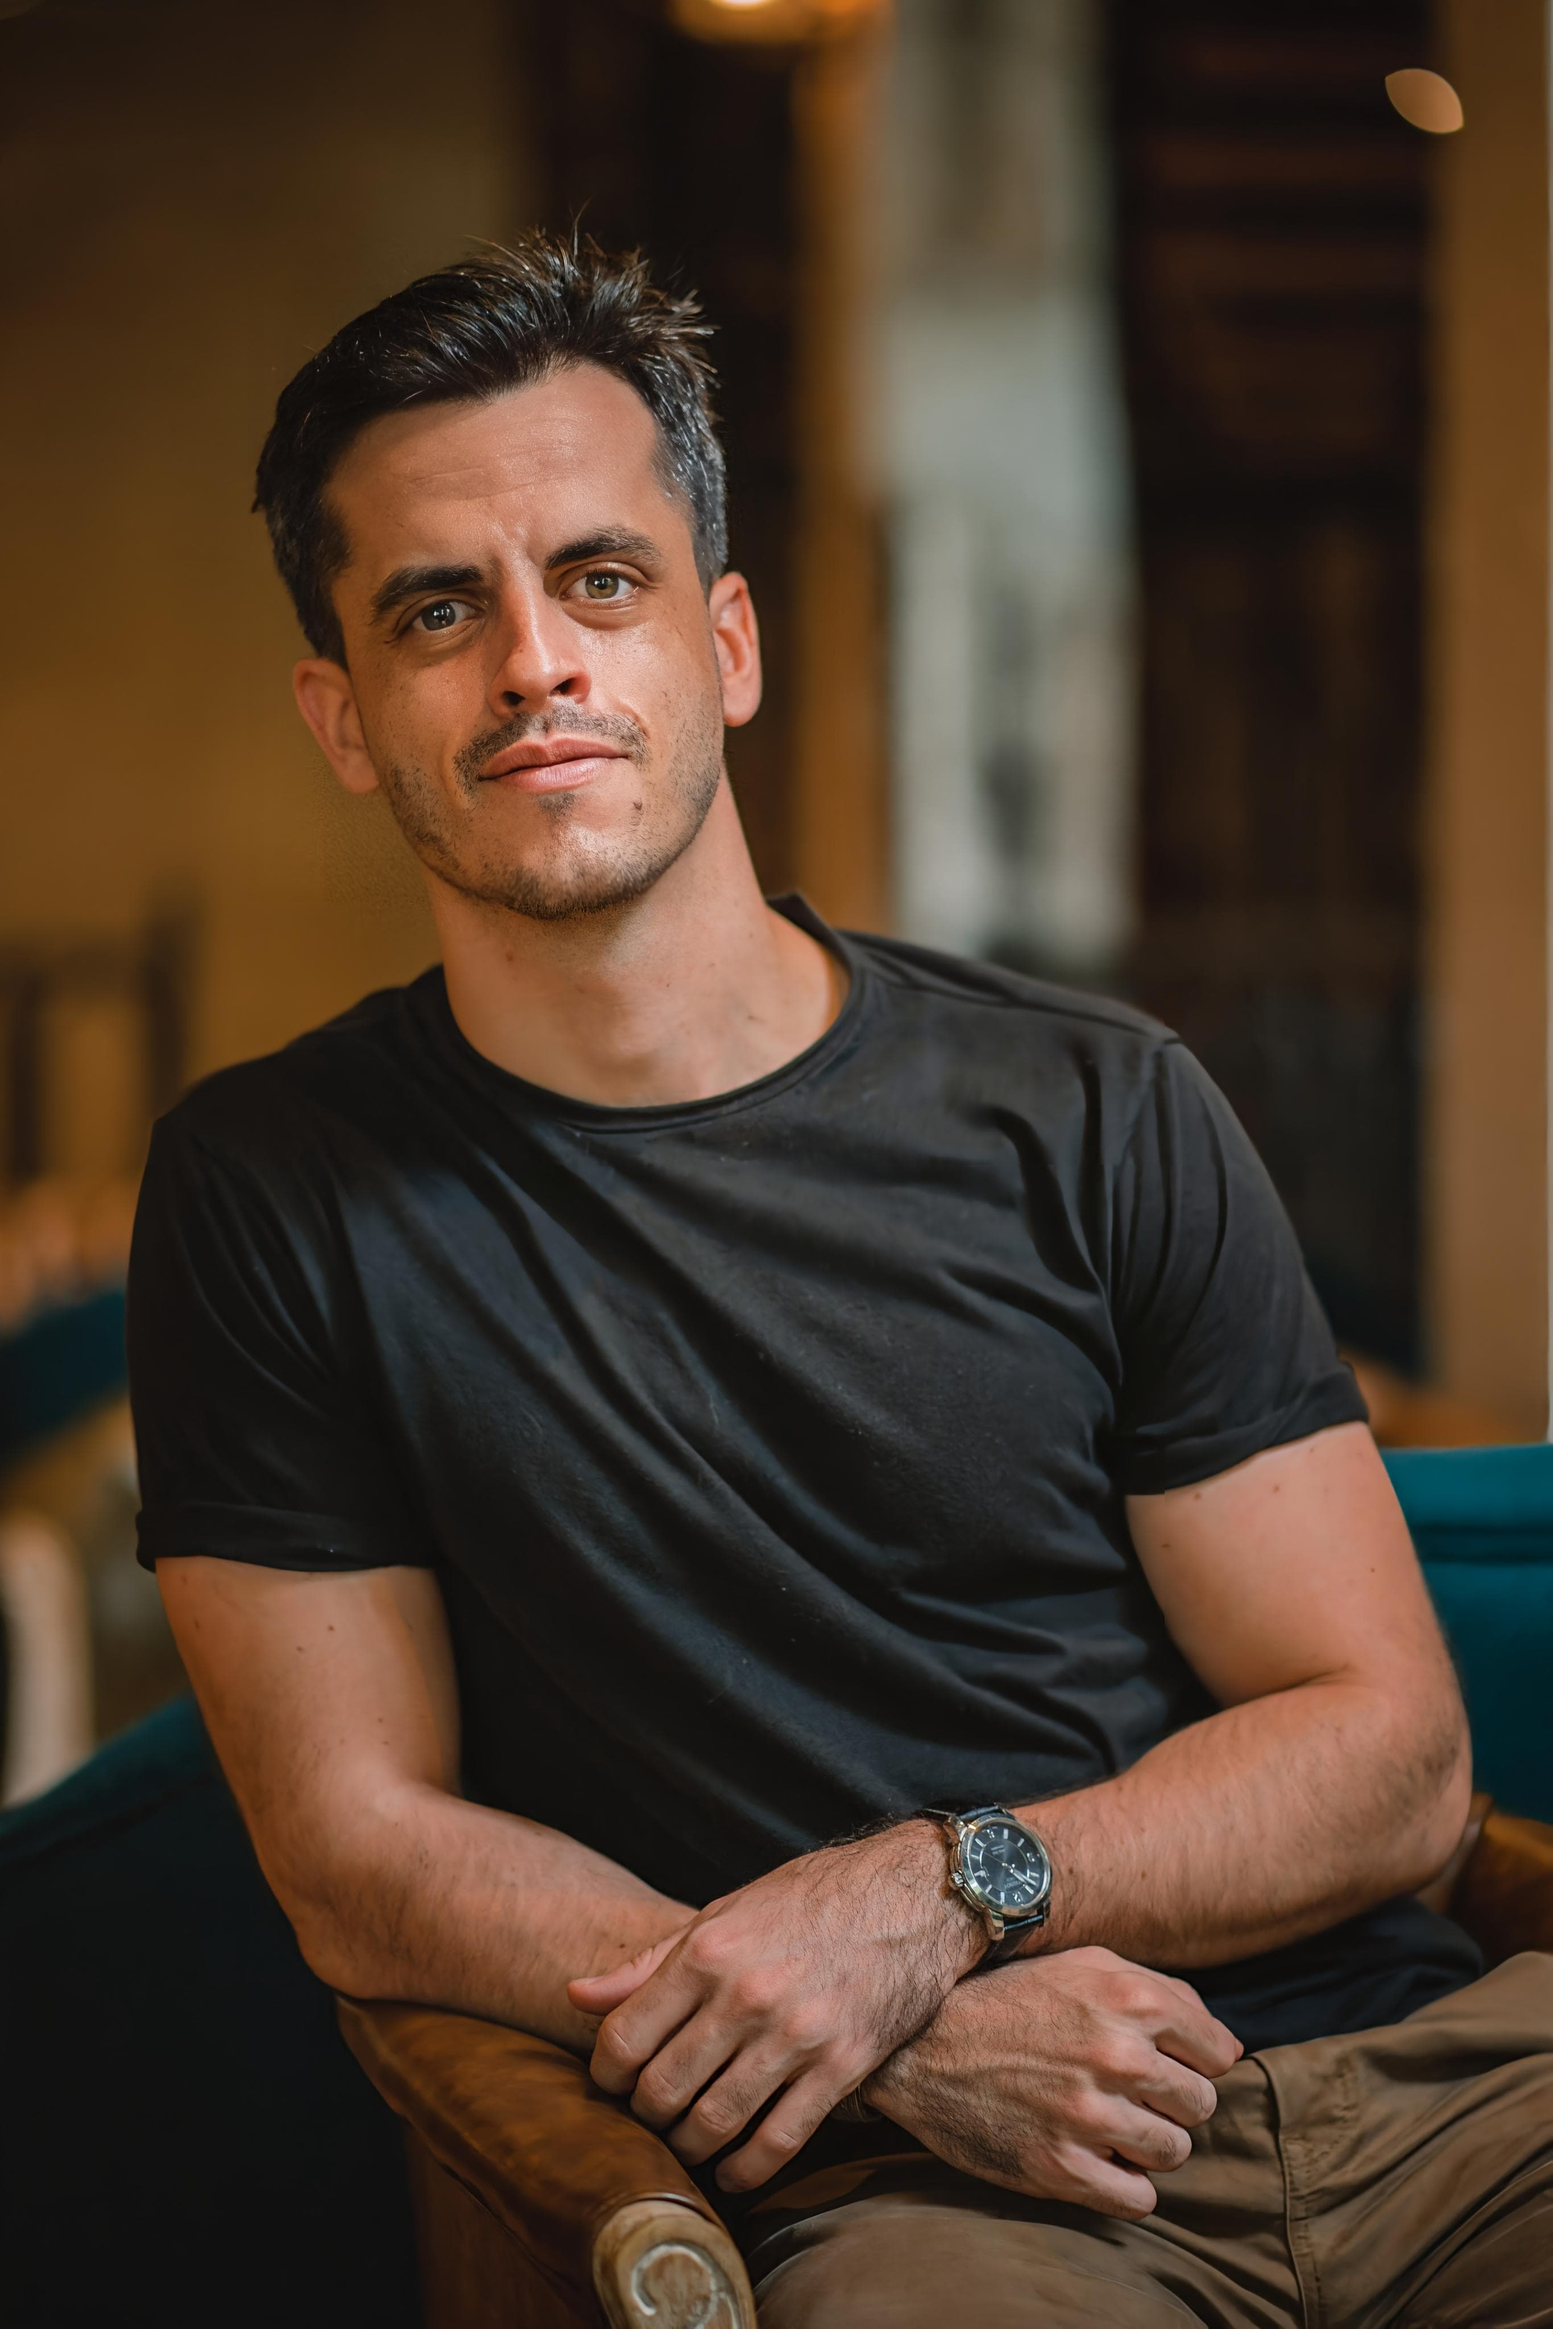
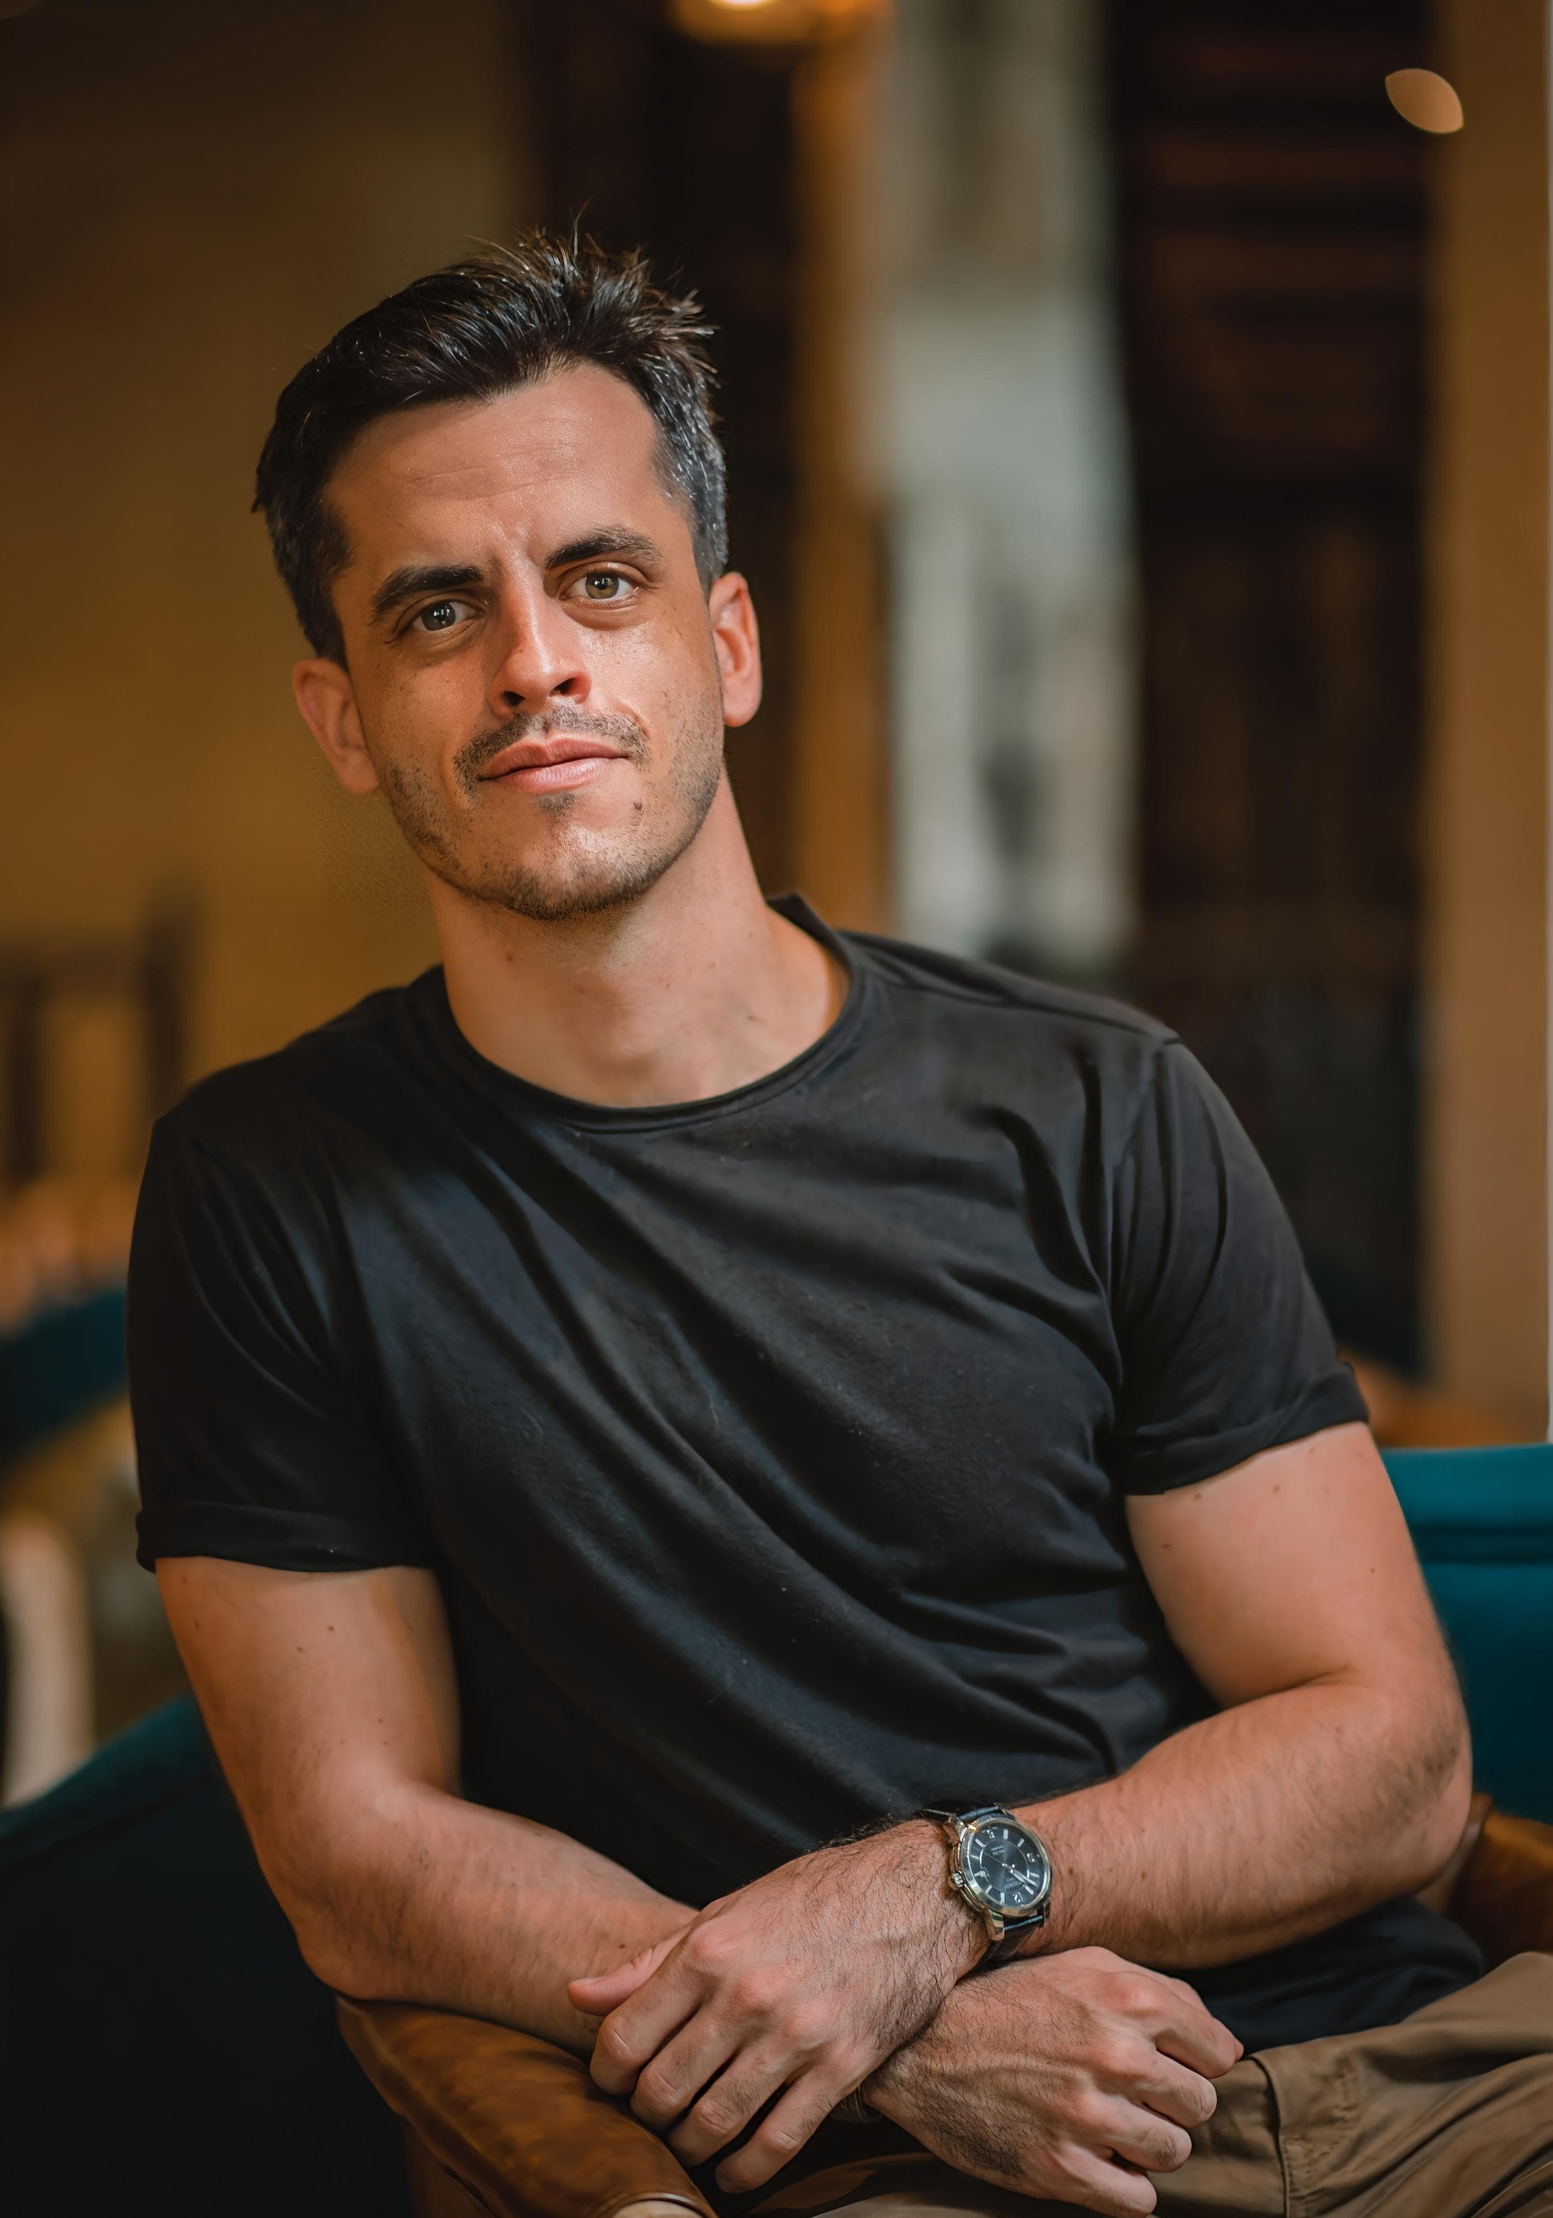
Restore cover fill on hero photo, no more pillarbox seam
contain was reintroducing exactly the hard vertical edge the spec
explicitly ruled out. Reverted to cover (fills edge-to-edge, blends
via the left gradient) and instead cropped the source photo itself
(removed excess chair/leg below the hands) plus a bottom-biased
background-position so the crossed hands and watch stay in frame.

diff --git a/css/style.css b/css/style.css
@@ -279,9 +279,9 @@ button { font-family: inherit; cursor: pointer; }
   background:
     radial-gradient(circle at 30% 20%, rgba(178,141,87,0.2), transparent 55%),
     linear-gradient(160deg, #2c2620 0%, #1c1b18 55%, #33291c 100%);
-  background-size: contain;
+  background-size: cover;
   background-repeat: no-repeat;
-  background-position: center top;
+  background-position: center 78%;
 }
 .hero-photo-wrap::before {
   content: "";
